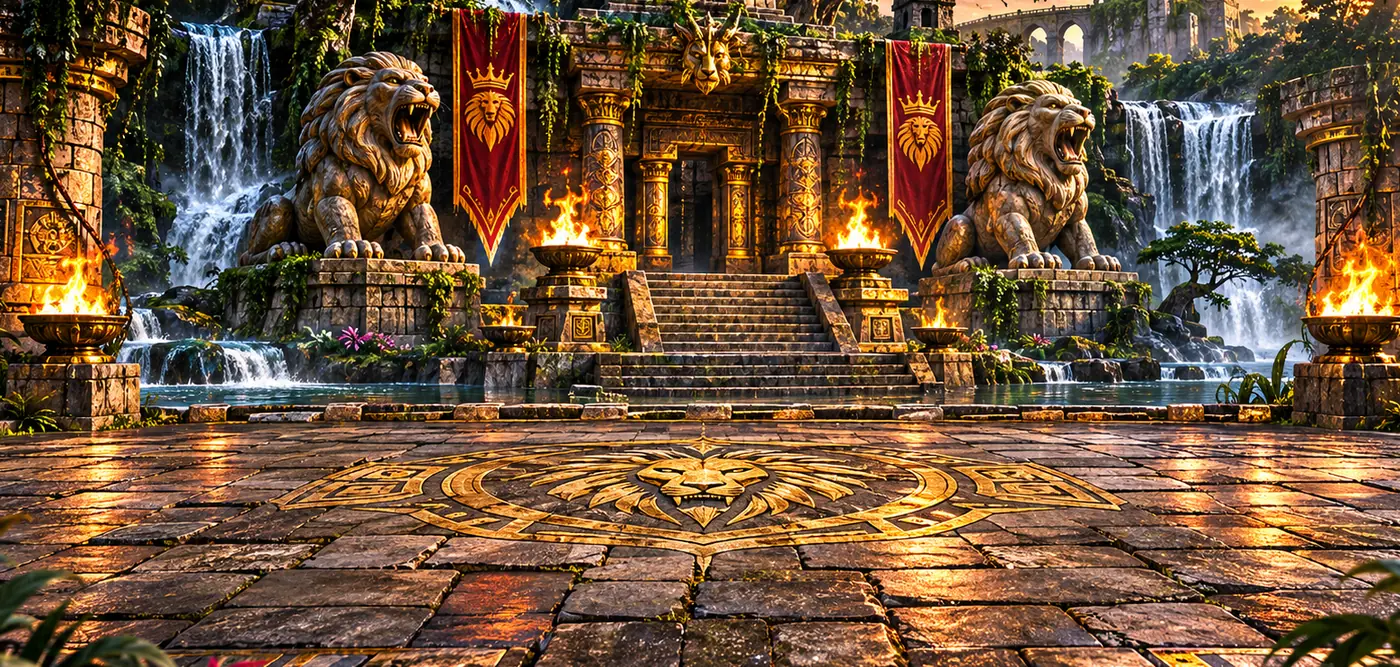
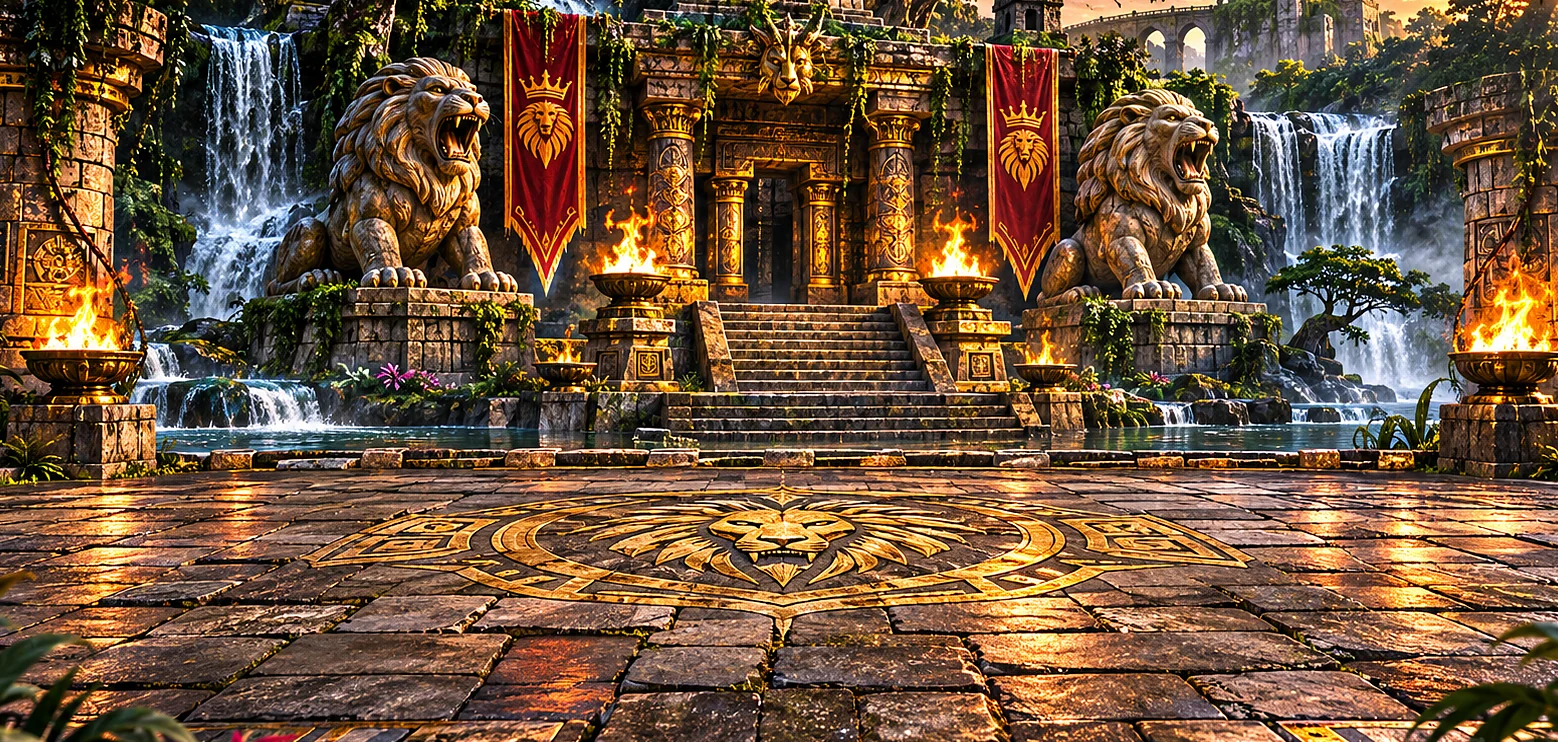
Build 2.7: full-screen fights with camera, 4K rendering, HD fighter art, dynamic resolution
Claude-Session: https://claude.ai/code/session_01Wp8cgXaeB7ersb1kcdwUzz

diff --git a/game/js/game.js b/game/js/game.js
@@ -8,6 +8,13 @@ const $=id=>document.getElementById(id), roster=KOTJ_ROSTER, screens=['menu','se
 const portrait=id=>'assets/characters/portraits/'+id+'.jpg';
 let mode='versus',step=1,picks=[roster[6],roster[1]],chosen=picks[0],game=null,raf=0,paused=false,last=0,time=99;
 let tower=null;
+const cam={x:0,y:0,z:1,snap:true};
+// Dynamic resolution: full detail (up to 4K) when the device keeps up, lower render scale if frames drop.
+const RES={scale:1,acc:0,n:0,cool:0};
+function resTick(real){RES.acc+=real;RES.n++;RES.cool=Math.max(0,RES.cool-real);
+ if(RES.acc<1)return;const avg=RES.acc/RES.n;RES.acc=0;RES.n=0;if(RES.cool>0)return;
+ if(avg>1/50&&RES.scale>.4){RES.scale=Math.max(.4,RES.scale*.8);RES.cool=1}
+ else if(avg<1/58&&RES.scale<1){RES.scale=Math.min(1,RES.scale*1.1);RES.cool=2}}
 /* ---------- Arenas ---------- */
 const ARENAS=[{id:'jungle-temple',name:'JUNGLE TEMPLE'},{id:'inferno-fortress',name:'INFERNO FORTRESS'},{id:'frozen-kingdom',name:'FROZEN KINGDOM'},
  {id:'savage-plains',name:'SAVAGE PLAINS'},{id:'shadow-swamp',name:'SHADOW SWAMP'},{id:'royal-colosseum',name:'ROYAL COLOSSEUM'}];
@@ -257,7 +264,8 @@ function start(){
  $('p1-tag').textContent='PLAYER 1';$('p2-tag').textContent=cpu2?'CPU':'PLAYER 2';
  $('mode-label').textContent=mode==='tower'?'TOWER':mode==='cpu'?'VS CPU':'VERSUS';
  $('round-label').textContent=tower?`FIGHT ${tower.index+1} / ${tower.ladder.length}`:'ROUND 1';
- time=99;paused=false;
+ time=99;paused=false;cam.z=1;cam.snap=true;
+ setTimeout(()=>{if(wantHD()){loadHD(picks[0].id);loadHD(picks[1].id)}},0);
  game={fighters:[fighter(300,1,picks[0]),fighter(800,-1,picks[1])],over:false,ko:0,dt:0,shake:0,hitstop:0,slow:1,slowT:0,flash:0,zoom:1,fx:[],banner:null,ultra:null,intro:1.3,dangerSaid:[0,0]};
  if(cpu2)game.fighters[1].ai=cpuBrain(tower?Math.min(1,.1+tower.index*.09):.45);
  ['p1','p2'].forEach(p=>{$(p+'-combo').textContent='';$(p+'-combo').classList.remove('active')});
@@ -269,13 +277,13 @@ function start(){
    if(pre&&AU.loaded(pre)){AU.now(pre);setTimeout(()=>{if(game&&!game.over)AU.now('voice.fight')},1000)}else AU.now('voice.fight');
   }else if(AU.has('announcer.fight'))AU.announce(); else speak('Fight');
  }else say('Fight');
- pad.classList.toggle('hidden',!isTouch());
+ pad.classList.toggle('hidden',!isTouch());document.body.classList.toggle('touch',isTouch());document.body.classList.remove('paused');
  last=performance.now();cancelAnimationFrame(raf);raf=requestAnimationFrame(loop);
 }
 function banner(text,sub,life=1.1,color='#ffd36b'){game.banner={text,sub,t:0,life,color}}
-function togglePause(){if(!game||game.over)return;paused=!paused;$('pause').textContent=paused?'RESUME':'PAUSE';AU&&AU.pauseMusic(paused)}
+function togglePause(){if(!game||game.over)return;paused=!paused;$('pause').textContent=paused?'RESUME':'PAUSE';document.body.classList.toggle('paused',paused);AU&&AU.pauseMusic(paused)}
 function loop(t){
- if(!game)return;let real=Math.min((t-last)/1000,.035);last=t;
+ if(!game)return;const rawDt=(t-last)/1000;let real=Math.min(rawDt,.035);last=t;if(!paused&&rawDt<.5)resTick(rawDt);
  if(!paused){
   if(game.slowT>0){game.slowT-=real;if(game.slowT<=0)game.slow=1}
   const dt=real*game.slow;game.dt=dt;
@@ -509,13 +517,20 @@ function finish(){
   if(line)setTimeout(()=>AU.now(line),450)}
  const champ=draw_?picks[0]:(p1won?picks[0]:picks[1]);$('winner-portrait').src=portrait(champ.id);$('winner-portrait').alt=champ.name;
  $('result').classList.toggle('defeat',cpu2&&!p1won&&!draw_);
- pad.classList.add('hidden');document.body.classList.remove('fighting');cancelAnimationFrame(raf);show('result');
+ pad.classList.add('hidden');document.body.classList.remove('fighting','paused','touch');cancelAnimationFrame(raf);show('result');
 }
 $('tower-next').onclick=()=>{picks=[tower.player,tower.ladder[tower.index]];arena=towerArena();start()};
 $('rematch').onclick=()=>{if(tower){if(tower.done){tower.done=false;tower.index=0}else if(game&&total(game.fighters[0])>total(game.fighters[1])&&tower.index>0)tower.index--;picks=[tower.player,tower.ladder[tower.index]];arena=towerArena()}start()};
-function clean(){cancelAnimationFrame(raf);game=null;document.body.classList.remove('fighting');pad.classList.add('hidden');for(const k in kb)kb[k]=false;if(window.speechSynthesis)speechSynthesis.cancel()}
+function clean(){cancelAnimationFrame(raf);game=null;document.body.classList.remove('fighting','paused','touch');pad.classList.add('hidden');for(const k in kb)kb[k]=false;if(window.speechSynthesis)speechSynthesis.cancel()}
 function menu(){clean();tower=null;show('menu');AU&&soundOn&&$('menu').classList.contains('started')&&AU.music('music.menu')}
-$('pause').onclick=togglePause;$('back-menu').onclick=menu;$('result-menu').onclick=menu;
+$('pause').onclick=togglePause;
+// Full screen (and sideways lock on phones that allow it)
+(function(){const b=$('fullscreen'),el=document.documentElement,can=!!(el.requestFullscreen||el.webkitRequestFullscreen);
+ if(!can){b.style.display='none';return}
+ const label=()=>b.textContent=document.fullscreenElement||document.webkitFullscreenElement?'EXIT FULL SCREEN':'FULL SCREEN';
+ b.onclick=async()=>{try{if(document.fullscreenElement||document.webkitFullscreenElement){await (document.exitFullscreen||document.webkitExitFullscreen).call(document)}
+  else{await (el.requestFullscreen||el.webkitRequestFullscreen).call(el);try{await screen.orientation.lock('landscape')}catch(_){}}}catch(_){}label()};
+ document.addEventListener('fullscreenchange',label);document.addEventListener('webkitfullscreenchange',label)})();$('back-menu').onclick=menu;$('result-menu').onclick=menu;
 
 /* ---------- Rendering ---------- */
 
@@ -558,13 +573,28 @@ const SPRITES={
   fall:['hit_heavy',[0,1,2,3,4,5]],getup:['knockdown_getup',[2,3,4,5,6]],ko:['hit_heavy',6]}
 };
 const spriteImg={};for(const id in SPRITES){spriteImg[id]={};for(const k in SPRITES[id].anims){const im=new Image();im.src='assets/characters/'+id+'/frames/'+k+'.webp';spriteImg[id][k]=im}}
+// High-detail art for big, sharp screens (laptops, TVs, 4K): loaded per fight, only for the two fighters in it.
+const HD=typeof SPRITES_HD!=='undefined'?SPRITES_HD:{},spriteHD={};
+function wantHD(){const r=$('game-canvas').getBoundingClientRect(),d=Math.min(window.devicePixelRatio||1,3);return r.height*d>=900}
+function loadHD(id){if(!HD[id]||spriteHD[id])return;spriteHD[id]={};for(const k in HD[id].anims){const im=new Image();im.decoding='async';im.src='assets/characters/'+id+'/frames-hd/'+k+'.webp';spriteHD[id][k]=im}}
 const c=$('game-canvas').getContext('2d');
 function draw(){
- const canvas=$('game-canvas'),rect=canvas.getBoundingClientRect(),dpr=Math.min(window.devicePixelRatio||1,2),w=1100,h=520;
- if(canvas.width!==Math.round(rect.width*dpr)||canvas.height!==Math.round(rect.height*dpr)){canvas.width=Math.round(rect.width*dpr);canvas.height=Math.round(rect.height*dpr)}
- c.setTransform(canvas.width/w,0,0,canvas.height/h,0,0);c.clearRect(0,0,w,h);c.lineJoin='round';c.miterLimit=2;
+ const canvas=$('game-canvas'),rect=canvas.getBoundingClientRect(),dpr=Math.min(window.devicePixelRatio||1,3),w=1100,h=520;
+ // Render at the screen's real pixel count, up to 4K (3840 x 2160).
+ let pw=Math.max(1,Math.round(rect.width*dpr*RES.scale)),ph=Math.max(1,Math.round(rect.height*dpr*RES.scale));const cap=Math.min(1,3840/pw,2160/ph);pw=Math.round(pw*cap);ph=Math.round(ph*cap);
+ if(canvas.width!==pw||canvas.height!==ph){canvas.width=pw;canvas.height=ph}
+ c.setTransform(1,0,0,1,0,0);c.clearRect(0,0,pw,ph);c.lineJoin='round';c.miterLimit=2;
+ // ---- Fighting-game camera: fills any screen shape, follows the fighters, zooms in when they're close.
+ const aspect=pw/ph,F=game.fighters,gap=Math.abs(F[0].x-F[1].x);
+ let vh=Math.min(570,1210/aspect);                                    // largest view that stays inside the arena art
+ const want=Math.max(1,Math.min(1.4,(vh*aspect*.9)/(gap+360)))*(game.zoom||1);
+ cam.z+=(want-cam.z)*.08;vh/=cam.z;const vw=vh*aspect;
+ const air=Math.min(F[0].y,F[1].y);                                   // keep jumping fighters in shot
+ let tx=(F[0].x+F[1].x)/2-vw/2,ty=400-vh*.84+Math.min(0,air)*.5;
+ tx=Math.max(-60,Math.min(1160-vw,tx));ty=Math.max(-30,Math.min(550-vh,ty));
+ if(cam.snap){cam.x=tx;cam.y=ty;cam.snap=false}else{cam.x+=(tx-cam.x)*.12;cam.y+=(ty-cam.y)*.12}
+ const sc=ph/vh;c.setTransform(sc,0,0,sc,-cam.x*sc,-cam.y*sc);
  if(game.shake>0)c.translate((Math.random()-.5)*22*Math.min(1,game.shake/.3),(Math.random()-.5)*14*Math.min(1,game.shake/.3));
- if(game.zoom>1.001){const F=game.fighters,cx=(F[0].x+F[1].x)/2,cy=300;c.translate(cx,cy);c.scale(game.zoom,game.zoom);c.translate(-cx,-cy);}
  c.imageSmoothingEnabled=true;c.imageSmoothingQuality='high';
  const t=performance.now()/1000;
  const bgi=arenaImg[arena.id];
@@ -590,10 +620,10 @@ function draw(){
  game.fighters.forEach((f,i)=>{f.trail.forEach(p=>{c.save();c.globalAlpha=p.t*1.2;c.filter='hue-rotate(220deg) saturate(3)';drawFighter({...f,x:p.x,y:p.y,dir:p.dir,hitFlash:0,trail:[]},i,true);c.restore()})});
  game.fighters.forEach((f,i)=>drawFighter(f,i));
  drawFx();
- c.setTransform(canvas.width/w,0,0,canvas.height/h,0,0);
- if(game.flash>0){c.fillStyle=`rgba(255,255,255,${Math.min(.75,game.flash*.6)})`;c.fillRect(0,0,w,h)}
+ {const s=Math.min(pw/w,ph/h);c.setTransform(s,0,0,s,(pw-w*s)/2,(ph-h*s)/2);}
+ if(game.flash>0){c.fillStyle=`rgba(255,255,255,${Math.min(.75,game.flash*.6)})`;c.fillRect(-w,-h,3*w,3*h)}
  drawComboCounters();drawBanner();
- if(paused){c.fillStyle='#000a';c.fillRect(0,0,w,h);c.fillStyle='#f5ecd8';c.font='900 54px Impact,"Barlow Condensed",sans-serif';c.textAlign='center';c.fillText('PAUSED',550,270);}
+ if(paused){c.fillStyle='#000a';c.fillRect(-w,-h,3*w,3*h);c.fillStyle='#f5ecd8';c.font='900 54px Impact,"Barlow Condensed",sans-serif';c.textAlign='center';c.fillText('PAUSED',550,270);}
 }
 function drawFx(){
  for(const p of game.fx){const k=1-p.t/p.life;
@@ -654,8 +684,11 @@ function drawSprite(f){
   case'victory':anim='victory';fr=Math.min(A.victory[0]-1,Math.floor(f.winT*8));break;
   default:anim='idle';fr=Math.floor(now*9);
  }
- const img=spriteImg[f.data.id][anim];if(!img||!img.complete||!img.naturalWidth)return false;
- const [n,fw,fh,px,py]=A[anim],sc=S.s;fr=((fr|0)%n+n)%n;
+ let img=spriteImg[f.data.id][anim],meta=A[anim],sc=S.s;
+ const hi=spriteHD[f.data.id]&&spriteHD[f.data.id][anim];
+ if(hi&&hi.complete&&hi.naturalWidth){img=hi;meta=HD[f.data.id].anims[anim];sc=HD[f.data.id].s}
+ if(!img||!img.complete||!img.naturalWidth)return false;
+ const [n,fw,fh,px,py]=meta;fr=((fr|0)%n+n)%n;
  if(f.action==='earthslam'&&p>.5){c.save();c.globalAlpha=.8*(1-p);c.strokeStyle='#f4bd43';c.lineWidth=7;const r=40+p*170;c.beginPath();c.ellipse(0,-6-f.y,r,r*.2,0,0,Math.PI*2);c.stroke();c.restore();}
  if(f.hitFlash>0)c.filter='brightness(2.4)';
  c.drawImage(img,fr*fw,0,fw,fh,-px,-py+6,fw/sc,fh/sc);c.filter='none';

diff --git a/game/styles.css b/game/styles.css
@@ -279,3 +279,80 @@ footer{background:rgba(6,5,8,.6);border-top:1px solid rgba(232,185,91,.2);color:
 /* during fights the backdrop is a still image (keeps the game at full frame rate) */
 body.fighting .bd-img{animation:none;filter:blur(8px) saturate(1.2) brightness(.38);transition:none}
 body.fighting .bd-rays,body.fighting #bd-embers{display:none}
+
+/* ============ 2.7: full-screen fights on every device ============ */
+body.fighting{overflow:hidden}
+body.fighting .topbar,body.fighting footer{display:none!important}
+body.fighting #fight{position:fixed!important;inset:0!important;padding:0!important;margin:0!important;z-index:20;background:#000;overflow:hidden;min-height:0!important}
+body.fighting .arena{position:absolute!important;inset:0!important;width:100%!important;height:100%!important;max-width:none!important;aspect-ratio:auto!important;margin:0!important;border:0!important;border-radius:0!important;box-shadow:none!important}
+body.fighting .arena canvas{width:100%!important;height:100%!important}
+body.fighting .arena-title{display:none}
+body.fighting .combat-readouts{display:none!important}
+/* HUD overlay */
+body.fighting .fight-hud{position:absolute;top:0;left:0;right:0;z-index:5;margin:0!important;padding:clamp(6px,1.6vh,22px) clamp(12px,3vw,56px) clamp(18px,4vh,46px);
+ background:linear-gradient(180deg,rgba(0,0,0,.72),rgba(0,0,0,.35) 60%,transparent);grid-template-columns:1fr clamp(58px,7vw,120px) 1fr!important;gap:clamp(8px,2vw,30px)!important;pointer-events:none}
+body.fighting .player-label{font-size:clamp(11px,1.25vw,22px)!important}
+body.fighting .hud-face{width:clamp(26px,3vw,56px)!important;height:clamp(26px,3vw,56px)!important}
+body.fighting .health-track{height:clamp(10px,1.9vh,24px)!important}
+body.fighting .bar-pips i{width:clamp(16px,1.8vw,34px);height:clamp(4px,.7vh,8px)}
+body.fighting #timer{font-size:clamp(24px,3.4vw,60px)!important;text-shadow:0 2px 8px #000}
+body.fighting .round-info small,body.fighting #mode-label{font-size:clamp(7px,.7vw,12px)!important}
+/* Instinct meters along the bottom */
+body.fighting .meter-row{position:absolute;left:0;right:0;bottom:0;z-index:5;margin:0!important;padding:clamp(14px,4vh,40px) clamp(12px,3vw,56px) clamp(6px,1.6vh,20px)!important;background:linear-gradient(0deg,rgba(0,0,0,.65),transparent);pointer-events:none}
+body.fighting .meter-panel{font-size:clamp(8px,.8vw,14px)!important}
+body.fighting .meter-track{height:clamp(8px,1.2vh,14px);max-width:clamp(160px,22vw,420px)}
+body.fighting .breaker-hint{display:none!important}
+/* slim action buttons, top center under the timer */
+body.fighting .fight-actions{position:absolute;z-index:6;left:50%;transform:translateX(-50%);top:clamp(64px,10vh,130px);display:flex;gap:6px;margin:0!important}
+body.fighting .fight-actions button{padding:5px 10px!important;font-size:clamp(9px,.8vw,13px)!important;letter-spacing:.12em;opacity:.55;transition:opacity .2s;clip-path:none!important}
+body.fighting .fight-actions button:hover,body.fighting.paused .fight-actions button{opacity:1}
+/* control hints appear on the pause screen instead of under the arena */
+body.fighting .controls{display:none!important}
+body.fighting.paused .controls{display:flex!important;flex-direction:column;gap:10px;position:absolute;z-index:7;left:50%;top:58%;transform:translate(-50%,-50%);width:min(92vw,760px);padding:18px 22px;
+ background:rgba(8,6,10,.88);border:1px solid rgba(232,185,91,.55);border-radius:8px;font-size:clamp(10px,1vw,14px)}
+.rotate-hint{display:none}
+/* touch devices (sideways): buttons float over the arena, meters move under the health bars */
+body.fighting .touch-pad{position:absolute!important;inset:auto 0 0 0!important;z-index:6;padding:clamp(6px,2vh,16px) clamp(8px,2vw,24px)!important;pointer-events:none;display:flex;justify-content:space-between;align-items:flex-end}
+body.fighting .touch-pad.hidden{display:none!important}
+body.fighting .touch-pad button{pointer-events:auto;background:rgba(0,0,0,.38)!important;backdrop-filter:blur(2px)}
+body.fighting .pad-left,body.fighting .pad-right{position:static!important}
+body.fighting.touch .meter-row{top:clamp(52px,15vh,110px);bottom:auto;background:none;padding-top:0!important}
+body.fighting.touch .fight-actions{top:auto;bottom:clamp(8px,2vh,16px)}
+@media (max-height:560px) and (orientation:landscape){
+ body.fighting .pad-right{flex-direction:row!important;align-items:flex-end}
+ body.fighting .touch-pad button{width:50px!important;height:50px!important}
+ body.fighting .pad-right .at{width:68px!important;height:68px!important}
+ body.fighting .pad-right .ins{width:40px!important;height:40px!important}
+}
+/* upright phones: full-width arena on top, controls underneath */
+@media (orientation:portrait) and (max-width:760px){
+ body.fighting .arena{inset:auto 0 auto 0!important;top:clamp(58px,9vh,80px)!important;height:62vw!important}
+ body.fighting .fight-hud{background:linear-gradient(180deg,#000,rgba(0,0,0,.85))}
+ body.fighting .rotate-hint{display:block;position:absolute;left:0;right:0;bottom:-34px;text-align:center;font:700 11px Inter;letter-spacing:.12em;color:#f4d58c}
+ body.fighting .meter-row{top:calc(clamp(58px,9vh,80px) + 62vw + 40px);bottom:auto;background:none}
+ body.fighting .touch-pad{bottom:clamp(10px,4vh,40px)!important}
+ body.fighting.touch .fight-actions{bottom:auto;top:calc(clamp(58px,9vh,80px) + 62vw + 76px)}
+ body.fighting #fight{background:radial-gradient(ellipse at 50% 30%,#2a1a0c,#050407 70%)}
+}
+
+@media (orientation:portrait) and (max-width:760px){
+ body.fighting .arena{top:clamp(62px,9vh,80px)!important;height:82vw!important}
+ body.fighting .rotate-hint{bottom:-30px}
+ body.fighting.touch .meter-row,body.fighting .meter-row{top:calc(clamp(62px,9vh,80px) + 82vw + 40px)!important;bottom:auto!important;background:none!important;padding-top:0!important}
+ body.fighting.touch .fight-actions,body.fighting .fight-actions{top:calc(clamp(62px,9vh,80px) + 82vw + 74px)!important;bottom:auto!important}
+}
+/* only PAUSE during play; the rest appear on the pause screen */
+body.fighting .fight-actions{top:clamp(56px,11vh,120px)!important;bottom:auto!important}
+body.fighting:not(.paused) .fight-actions button:not(#pause){display:none}
+body.fighting.paused .fight-actions{top:34%!important;flex-wrap:wrap;justify-content:center;width:min(92vw,560px)}
+body.fighting.paused .fight-actions button{opacity:1;padding:10px 16px!important;font-size:clamp(12px,1.2vw,17px)!important}
+body.fighting.paused .controls{top:62%}
+@media (max-height:560px) and (orientation:landscape){
+ body.fighting .pad-left .wide{width:auto!important;height:40px!important;border-radius:20px}
+ body.fighting.paused .fight-actions{top:22%!important}
+ body.fighting.paused .controls{display:none!important}
+}
+@media (orientation:portrait) and (max-width:760px){
+ body.fighting.paused .fight-actions{top:calc(clamp(62px,9vh,80px) + 82vw + 74px)!important}
+ body.fighting.paused .controls{display:none!important}
+}

diff --git a/game/js/sprites-hd.js b/game/js/sprites-hd.js
@@ -1,0 +1,2 @@
+// High-detail fighter frames (frames-hd/), used on large/sharp screens. Same layout as SPRITES.
+const SPRITES_HD={"badger":{"s":0.8,"anims":{"idle":[9,160,172,99,215],"walk_forward":[8,171,166,88,208],"walk_back":[6,123,169,72,211],"run":[7,271,162,144,203],"crouch":[4,174,141,108,176],"block":[6,144,165,88,206],"attack_light":[7,207,165,122,206],"attack_heavy":[8,202,178,98,223],"claw_swipe":[6,232,166,122,207],"bite":[5,241,169,110,211],"uppercut":[8,177,186,94,233],"jump":[7,151,166,94,208],"pounce":[8,226,141,142,176],"special_earth_slam":[7,190,143,119,179],"shadow_rampage":[10,166,143,104,179],"hit_light":[6,197,182,130,228],"hit_heavy":[7,206,178,128,223],"knockdown_getup":[8,223,180,140,225],"victory":[7,204,196,120,245],"defeat":[6,192,157,120,196]}},"crocodile":{"s":0.8,"anims":{"idle":[9,224,205,140,256],"walk_forward":[7,307,201,164,251],"walk_back":[6,282,201,137,251],"run":[7,351,186,157,233],"block":[6,217,189,134,236],"attack_light":[7,276,203,144,254],"attack_heavy":[6,370,201,207,251],"bite":[6,342,182,170,227],"uppercut":[7,286,186,136,233],"jump":[7,278,174,174,218],"special_pounce":[6,413,179,258,224],"hit_light":[6,250,182,187,227],"hit_heavy":[8,278,179,174,224],"knockdown_getup":[14,314,160,196,200],"victory":[8,203,243,128,304],"defeat":[7,300,161,188,201]}},"elephant":{"s":0.8,"anims":{"idle":[9,218,264,138,330],"walk_forward":[7,319,254,162,318],"walk_back":[6,291,251,140,314],"run":[7,399,239,172,299],"block":[6,256,237,159,296],"attack_light":[7,309,257,178,321],"attack_heavy":[6,456,251,258,314],"bite":[6,519,228,247,285],"uppercut":[7,353,234,186,292],"jump":[7,324,222,202,277],"special_pounce":[6,538,230,336,288],"hit_light":[6,314,230,236,288],"hit_heavy":[8,354,230,221,288],"knockdown_getup":[14,388,205,242,256],"victory":[8,265,310,168,387],"defeat":[7,371,210,232,263]}},"grizzly":{"s":0.8,"anims":{"idle":[9,203,246,127,307],"walk_forward":[8,278,230,157,287],"walk_back":[6,240,230,142,287],"run":[7,332,217,146,271],"block":[6,251,222,156,277],"attack_light":[7,310,230,160,287],"attack_heavy":[6,342,227,198,284],"bite":[6,377,203,172,254],"uppercut":[7,301,206,158,257],"jump":[7,274,198,171,248],"special_pounce":[6,382,201,239,251],"hit_light":[6,299,211,220,264],"hit_heavy":[8,322,214,202,267],"knockdown_getup":[14,367,185,230,231],"victory":[8,264,282,173,353],"defeat":[7,341,198,213,248]}},"hippo":{"s":0.8,"anims":{"idle":[9,228,253,142,316],"walk_forward":[8,262,243,154,304],"walk_back":[6,255,246,137,307],"run":[7,361,226,143,283],"block":[6,247,229,154,286],"attack_light":[7,309,232,164,290],"attack_heavy":[6,393,234,216,293],"bite":[6,425,207,182,259],"uppercut":[7,312,213,150,266],"jump":[7,295,204,184,255],"special_pounce":[6,384,213,240,266],"hit_light":[6,322,223,244,279],"hit_heavy":[8,353,221,221,276],"knockdown_getup":[14,364,188,228,235],"victory":[8,282,293,184,366],"defeat":[7,312,171,195,214]}},"hyena":{"s":0.8,"anims":{"idle":[9,163,192,102,240],"walk_forward":[8,218,191,121,239],"walk_back":[6,181,210,88,262],"run":[7,319,190,111,237],"block":[6,203,191,126,239],"attack_light":[7,244,198,130,248],"attack_heavy":[6,362,198,198,248],"bite":[6,308,187,166,234],"uppercut":[7,278,185,129,231],"jump":[7,257,164,161,205],"special_pounce":[6,343,169,215,211],"hit_light":[6,231,182,173,228],"hit_heavy":[8,262,182,164,228],"knockdown_getup":[14,287,160,180,200],"victory":[8,209,244,138,305],"defeat":[7,271,175,170,219]}},"jaguar":{"s":0.8,"anims":{"idle":[9,193,197,128,246],"walk_forward":[8,253,195,162,244],"walk_back":[6,190,197,104,246],"run":[7,283,188,122,235],"block":[6,203,190,127,238],"attack_light":[7,262,197,132,246],"attack_heavy":[6,322,197,174,246],"bite":[6,339,181,148,226],"uppercut":[7,267,186,128,232],"jump":[7,239,172,150,215],"special_pounce":[6,376,167,235,209],"hit_light":[6,243,183,174,229],"hit_heavy":[8,265,181,166,226],"knockdown_getup":[14,294,158,184,197],"victory":[8,219,239,143,299],"defeat":[7,283,174,177,218]}},"leopard":{"s":0.8,"anims":{"idle":[9,180,190,122,238],"walk_forward":[8,234,191,147,239],"walk_back":[6,206,191,134,239],"run":[7,293,180,117,225],"block":[6,201,190,125,237],"attack_light":[7,266,196,125,245],"attack_heavy":[6,356,198,194,248],"bite":[6,317,174,143,217],"uppercut":[7,246,180,128,225],"jump":[7,244,160,152,200],"special_pounce":[6,351,162,220,202],"hit_light":[6,238,180,170,225],"hit_heavy":[8,249,182,156,228],"knockdown_getup":[14,306,155,191,194],"victory":[8,320,235,142,294],"defeat":[7,278,171,174,214]}},"lion":{"s":0.8,"anims":{"idle":[9,194,210,136,263],"walk_forward":[8,238,203,151,254],"walk_back":[6,199,203,110,254],"run":[7,278,191,132,239],"block":[6,195,196,122,245],"attack_light":[7,280,206,142,257],"attack_heavy":[6,346,206,182,257],"bite":[6,340,186,168,233],"uppercut":[7,274,189,123,236],"jump":[7,238,179,149,224],"special_pounce":[6,420,182,262,227],"hit_light":[6,238,191,178,239],"hit_heavy":[8,274,189,171,236],"knockdown_getup":[14,315,158,197,198],"victory":[8,208,258,130,322],"defeat":[7,278,179,174,224]}},"tiger":{"s":0.8,"anims":{"idle":[9,195,210,126,263],"walk_forward":[8,258,203,154,254],"walk_back":[6,201,203,114,254],"run":[7,314,186,128,233],"block":[6,198,196,122,245],"attack_light":[7,245,203,131,254],"attack_heavy":[6,354,203,199,254],"bite":[6,345,184,153,230],"uppercut":[7,275,184,133,230],"jump":[7,258,174,161,218],"special_pounce":[6,363,179,227,224],"hit_light":[6,254,184,188,230],"hit_heavy":[8,288,184,180,230],"knockdown_getup":[14,308,165,192,206],"victory":[8,230,248,155,310],"defeat":[7,283,177,177,221]}},"wolf":{"s":0.8,"anims":{"idle":[10,173,199,107,249],"walk_forward":[9,194,182,114,227],"walk_back":[7,178,184,101,230],"run":[8,378,186,171,233],"block":[6,196,196,122,245],"attack_light":[7,273,196,130,245],"attack_heavy":[6,348,196,190,245],"bite":[6,326,183,166,229],"uppercut":[7,264,191,130,239],"jump":[7,259,182,162,227],"special_pounce":[6,432,174,270,218],"hit_light":[6,233,198,165,248],"hit_heavy":[8,268,198,167,248],"knockdown_getup":[14,290,177,182,221],"victory":[8,216,264,135,330],"defeat":[7,302,191,189,239]}}};

diff --git a/game/index.html b/game/index.html
@@ -8,7 +8,7 @@
 <body>
   <div id="backdrop" aria-hidden="true"><div class="bd-img bd-a"></div><div class="bd-img bd-b"></div><div class="bd-rays"></div><div class="bd-vignette"></div><canvas id="bd-embers"></canvas></div>
   <main id="app">
-    <header class="topbar"><img class="brand-crown" src="assets/ui/crown.webp" alt=""><div><div class="eyebrow">THE WILD FIGHTING CHAMPIONSHIP</div><h1>KING OF THE JUNGLE</h1></div><div class="build-tag">WEB BUILD · 2.6</div></header>
+    <header class="topbar"><img class="brand-crown" src="assets/ui/crown.webp" alt=""><div><div class="eyebrow">THE WILD FIGHTING CHAMPIONSHIP</div><h1>KING OF THE JUNGLE</h1></div><div class="build-tag">WEB BUILD · 2.7</div></header>
     <section id="menu" class="screen cover">
       <div class="cover-bg"></div><div class="cover-rays"></div><canvas id="embers" class="cover-embers"></canvas><div class="cover-vignette"></div>
       <div class="cover-hero"><div class="hero-glow"></div><img src="assets/characters/lion/lion-hero.webp" alt="The Lion, King of the Jungle"></div>
@@ -41,17 +41,17 @@
     <section id="fight" class="screen hidden">
       <div class="fight-hud"><div class="player-hud"><div class="player-label"><img id="p1-face" class="hud-face" alt=""><span id="p1-tag">PLAYER 1</span> <strong id="p1-name">LION</strong></div><div class="health-track"><div id="p1-pot" class="health-pot"></div><div id="p1-health" class="health-fill"></div></div><div class="bar-pips" id="p1-pips"><i></i><i></i></div></div><div class="round-info"><span id="mode-label">VERSUS</span><strong id="timer">99</strong><small id="round-label">ROUND 1</small></div><div class="player-hud right"><div class="player-label"><span id="p2-tag">PLAYER 2</span> <strong id="p2-name">TIGER</strong><img id="p2-face" class="hud-face" alt=""></div><div class="health-track"><div id="p2-pot" class="health-pot"></div><div id="p2-health" class="health-fill"></div></div><div class="bar-pips" id="p2-pips"><i></i><i></i></div></div></div>
       <div class="combat-readouts"><div class="combo-readout" id="p1-combo">0 HIT COMBO</div><div class="combat-center" id="combat-callout">FIGHT!</div><div class="combo-readout" id="p2-combo">0 HIT COMBO</div></div>
-      <div class="arena"><div class="arena-sun"></div><div class="arena-back"></div><div class="arena-floor"></div><canvas id="game-canvas" width="1100" height="520" aria-label="Fighting game arena"></canvas><div class="arena-title" id="arena-title">JUNGLE TEMPLE</div></div>
+      <div class="arena"><div class="arena-sun"></div><div class="arena-back"></div><div class="arena-floor"></div><canvas id="game-canvas" width="1100" height="520" aria-label="Fighting game arena"></canvas><div class="arena-title" id="arena-title">JUNGLE TEMPLE</div><div class="rotate-hint">↻ Turn your phone sideways for full-screen fights</div></div>
       <div id="touch-pad" class="touch-pad hidden">
         <div class="pad-left"><button data-k="l" aria-label="Move left">◀</button><button data-k="j" aria-label="Jump">▲</button><button data-k="r" aria-label="Move right">▶</button><button data-k="bl" class="wide" aria-label="Block">BLOCK</button></div>
         <div class="pad-right"><button data-k="ins" class="ins" aria-label="Instinct">INS</button><button data-k="sp" class="sp" aria-label="Special">SPC</button><button data-k="at" class="at" aria-label="Attack">ATK</button></div>
       </div>
       <div class="controls"><div><b>PLAYER 1</b><span>A/D MOVE · W JUMP · S BLOCK · F ATTACK · S+F HEAVY BITE · G SPECIAL · S+G SHADOW · H INSTINCT</span></div><div><b>PLAYER 2</b><span>←/→ MOVE · ↑ JUMP · ↓ BLOCK · K ATTACK · ↓+K HEAVY · L SPECIAL · ↓+L SHADOW · ; INSTINCT</span></div><div><b>CONTROLLER</b><span>STICK MOVE · A/✕ JUMP · X/□ ATTACK · Y/△ SPECIAL · B/○ or LT BLOCK · RB/R1 or RT INSTINCT · START PAUSE</span></div></div>
       <div class="meter-row"><div class="meter-panel"><span>P1 INSTINCT</span><div class="meter-track"><div id="p1-meter" class="meter-fill"></div></div></div><div class="breaker-hint">COMBO: ATTACK → ATTACK (auto-double) → SPECIAL (ender) · GETTING COMBOED? TAP ATTACK ON THE GOLD FLASH TO BREAK</div><div class="meter-panel right"><span>P2 INSTINCT</span><div class="meter-track"><div id="p2-meter" class="meter-fill"></div></div></div></div>
-      <div class="fight-actions"><button id="pause" class="secondary">PAUSE</button><button id="back-menu" class="secondary">MAIN MENU</button><button id="sound" class="secondary">SOUND: ON</button></div>
+      <div class="fight-actions"><button id="pause" class="secondary">PAUSE</button><button id="back-menu" class="secondary">MAIN MENU</button><button id="sound" class="secondary">SOUND: ON</button><button id="fullscreen" class="secondary">FULL SCREEN</button></div>
     </section>
     <section id="result" class="screen result-screen hidden"><div class="winner-art"><div class="winner-burst"></div><img id="winner-portrait" alt=""><img class="winner-crown" src="assets/ui/crown.webp" alt=""></div><p class="eyebrow">THE ARENA HAS SPOKEN</p><h2 id="winner-title">PLAYER 1 WINS</h2><p id="winner-copy">The crown belongs to the victor.</p><div id="tower-ladder" class="tower-ladder"></div><button id="tower-next" class="primary hidden">NEXT FIGHT</button><button id="rematch" class="primary">REMATCH</button><button id="result-menu" class="secondary">MAIN MENU</button></section>
     <footer><span>© KING OF THE JUNGLE</span><span>Game made by J. Hardy</span></footer>
   </main>
-  <script src="js/roster.js"></script><script src="js/audio.js"></script><script src="js/game.js"></script>
+  <script src="js/roster.js"></script><script src="js/sprites-hd.js"></script><script src="js/audio.js"></script><script src="js/game.js"></script>
 </body></html>

diff --git a/README.md b/README.md
@@ -210,3 +210,11 @@ The fight system is rebuilt around KI-style combo mechanics, with original names
 - Added Holden's 8 recorded calls (`game/audio/voice/`, trimmed and volume-matched; original WAVs in `docs/audio-package/holden-original/`).
 - Round one! → Fight! at every fight start · Combo! when a 3+ hit combo ends · Shadow attack! on Shadow moves · Finish him! when a fighter drops into DANGER · Ultra! when an Ultra starts · Knockout! on every K.O. · Flawless victory! when the winner took no damage (also shown on the results screen).
 - An Ultra Combo no longer calls "Ultra" twice: it's Ultra! at the start and Knockout! at the finish.
+
+## Web build 2.7: Full-screen fights, up to 4K
+- Fights fill the whole screen on every device (phone, laptop, TV), with the HUD laid over the action instead of a small framed window. On a 1920-wide screen the arena went from 1096×476 to full screen.
+- Fighting-game camera: follows the fighters, zooms in when they're close, widens when they separate and keeps jumps in frame. It fits any screen shape with no stretching.
+- Renders at the screen's real pixel count up to 4K (3840×2160). Dynamic resolution lowers the render scale only if the device can't keep ~60 fps.
+- High-detail fighter art (`assets/characters/<animal>/frames-hd/`, `js/sprites-hd.js`) loads automatically on large, sharp screens, only for the two fighters in the match. Arenas now use the full-resolution clean art.
+- FULL SCREEN button (also locks phones sideways where allowed). During play only PAUSE shows; Main Menu, Sound, Full Screen and the control guide are on the pause screen.
+- Upright phones: bigger arena (82% of the width) with a "turn sideways" hint; sideways phones: fully full-screen with the controls over the arena.
